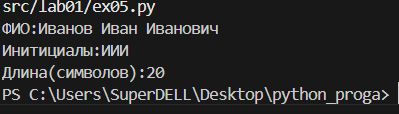
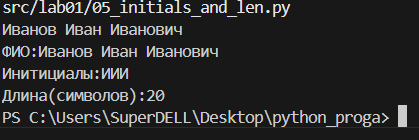
update

Changed region(s): [[0.0, 0.1579, 1.0, 0.9211], [0.0, 0.0, 0.6917, 0.1579]]

diff --git a/src/lab01/05_initials_and_len.py b/src/lab01/05_initials_and_len.py
@@ -1,7 +1,8 @@
-fio=input('ФИО:')
+fio=input()
 _fio=fio.strip()
 parts=_fio.split()
 initials="".join(p[0].upper() for p in parts if p)
 length=len(_fio)
+print(f'ФИО:{_fio}')
 print(f'Инитициалы:{initials}')
 print(f'Длина(символов):{length}')

diff --git a/README.md b/README.md
@@ -10,3 +10,64 @@
 Вывод данных:
 Привет Bagtygul! Через год тебе будет 19!
 ```
+**Задание №2**
+
+```
+Ввод данных:
+а:3,5
+b:4.25
+Вывод данных:
+sum=7.75; avg=3.88
+```
+**Задание №3**
+```
+Входные данные:
+1000
+10
+20
+
+Вывод: 
+База после скидки: 900.00 ₽
+НДС:               180.00 ₽
+Итого к оплате:    1080.00 ₽
+```
+**Задание №4**
+```
+Ввод данных:
+минуты:135
+Вывод данных:
+2:15
+```
+**Задание №5**
+```
+Входные данные:
+Иванов Иван Иванович
+
+Вывод:
+ФИО:Иванов Иван Иванович  
+Инициалы:ИИИ.
+Длина (символов): 20
+```
+**Задание №6**
+```
+Входные данные:
+3
+Максимов Максим 18 True
+Геннадьев Геннадий 17 False
+Алексеев Алексей 17 True
+
+Вывод:
+in_1: 3
+in_2: Максимов Максим 18 True
+in_3: Геннадьев Геннадий 17 False
+in_4: Алексеев Алексей 17 True
+out: 2 1
+```
+**Задание №7**
+```
+Входные данные:
+thisisabracadabraHt1eadljjl12ojh.
+
+Вывод:
+out: Hello.
+```
